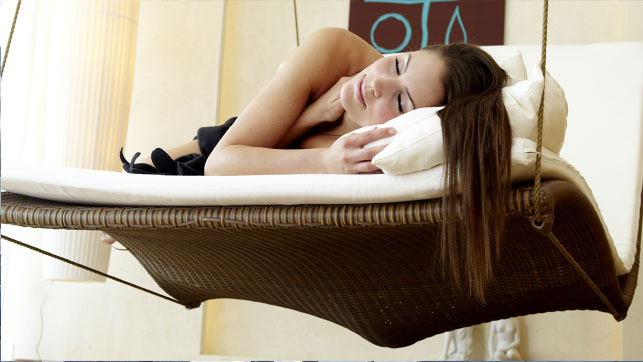
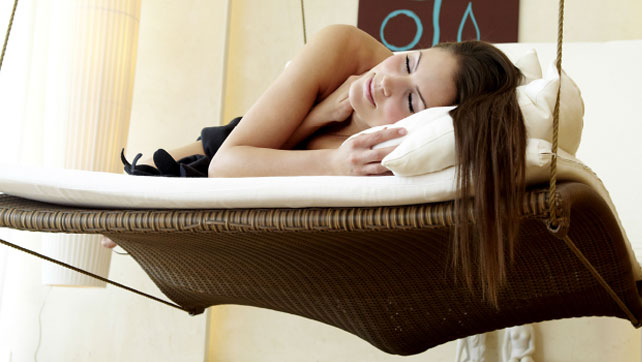
modify

diff --git a/html/css/footer.css b/html/css/footer.css
@@ -41,13 +41,9 @@ footer h5 {margin-bottom: 25px;}
 .special-section-header .section-title p {font-size: 53px;}
 .special-section-header .section-title h2 {text-transform: uppercase;font-size: 53px;background:url("../images/double-arrow-rh.png") no-repeat 94% center; margin-top: 15px;}
 
-.col-4-box .text-cont {
-    background: #fff none repeat scroll 0 0;
-    bottom: 30px;
-    padding: 15px;
-    position: absolute;
-}
-
+.news-gallery .text-cont {bottom: 30px;padding: 15px;position: absolute;right: 10px;display: block;}
+.news-gallery .text-cont > p {color: #fff;ont-size: 22px;text-shadow: 0 0 7px #000;margin-bottom: 0;}
+.news-gallery .text-cont strong {font-size: 60px;}
 
 
 

diff --git a/html/innerpage1.html b/html/innerpage1.html
@@ -142,7 +142,7 @@
     </div>
     <!-- Header full width image -->
     <div class="full-container">
-      <img class="img-responsive" src="images/banner01.jpg" height="700" width="1920" alt="" />
+      <img class="img-responsive" src="images/banner02.jpg" alt="" />
     </div>
     <!-- /Header full width image -->
     <!-- Toggle Section -->

diff --git a/html/css/style.css b/html/css/style.css
@@ -2,6 +2,8 @@
 @import url(fonts.css);
 @import url(typography.css);
 @import url(block-box.css);
+@import url(magpop.css);
+@import url(superslides.css);
 @import url(header.css);
 @import url(main.css);
 @import url(footer.css);
